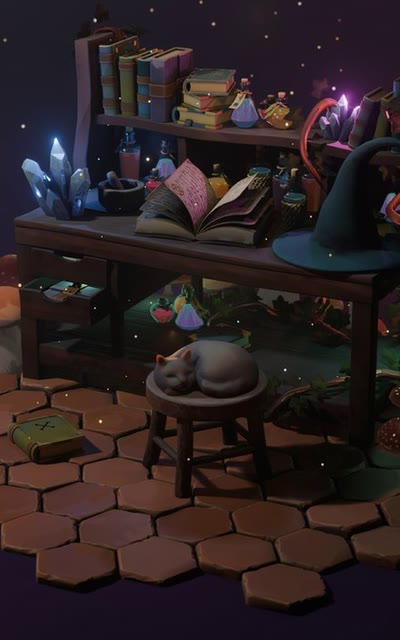
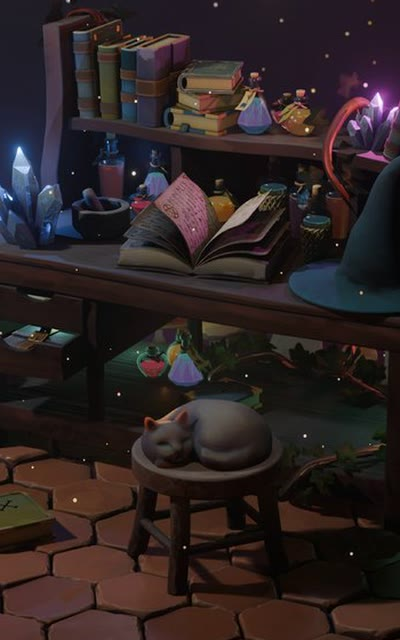
center anubis, remove persistent fade

diff --git a/index.html b/index.html
@@ -500,7 +500,7 @@ h1 {
   var strip = $("strip"), vidC = $("vid"), vidG = $("vidg"), vid = vidC, show = $("show");
   var base = "assets/landing/";
   // version des medias : a changer quand on remplace une video ou une image, pour contourner le cache
-  var V = "?v=20261124g";
+  var V = "?v=20261124i";
 
   function nm(p) { return typeof p.name === "string" ? p.name : p.name[lang]; }
 
@@ -587,6 +587,7 @@ h1 {
       nImg.classList.remove("fade");
       fImg.classList.add("fade");
       front = next;
+      if ((!vid.classList.contains("fade") && (vid.currentSrc || "").indexOf("/" + p.id + ".mp4") >= 0) || (!anim.classList.contains("fade") && (anim.src || "").indexOf("/" + p.id + "_a") >= 0)) hidePoster();
     };
     nImg.src = base + p.id + ".jpg" + V;
     if (nImg.complete && nImg.onload) nImg.onload();
@@ -644,7 +645,7 @@ h1 {
   function showAnim(p, temp) {
     animTemp = !!temp;
     var t0 = Date.now(), d = (DUR[p.id] || 9) * 1000;
-    anim.onload = function () { anim.onload = null; anim.classList.remove("fade"); };
+    anim.onload = function () { anim.onload = null; anim.classList.remove("fade"); hidePoster(); };
     anim.src = base + p.id + "_a.webp" + V;
     clearTimeout(timer);
     (function tick() {
@@ -658,9 +659,12 @@ h1 {
 
   // Ne montrer la video qu'une fois sa premiere image vraiment affichee (Safari annonce
   // "playing" avant d'avoir peint l'image, ce qui laissait voir un instant l'ancienne).
+  // une fois la video (ou l'image animee) affichee, on retire l'image fixe : sinon on la voit
+  // en transparence dans le fondu du bas
+  function hidePoster() { var im = $("img-" + front); if (im) setTimeout(function () { im.classList.add("fade"); }, 450); }
   function revealVideo() {
     var src = vid.currentSrc;
-    function show() { if (vid.currentSrc === src && !useAnim) vid.classList.remove("fade"); }
+    function show() { if (vid.currentSrc === src && !useAnim) { vid.classList.remove("fade"); hidePoster(); } }
     if (vid.requestVideoFrameCallback) vid.requestVideoFrameCallback(function () { vid.requestVideoFrameCallback(function () { show(); }); });
     else {
       var on = function () { if (vid.currentTime > 0.04) { vid.removeEventListener("timeupdate", on); show(); } };
